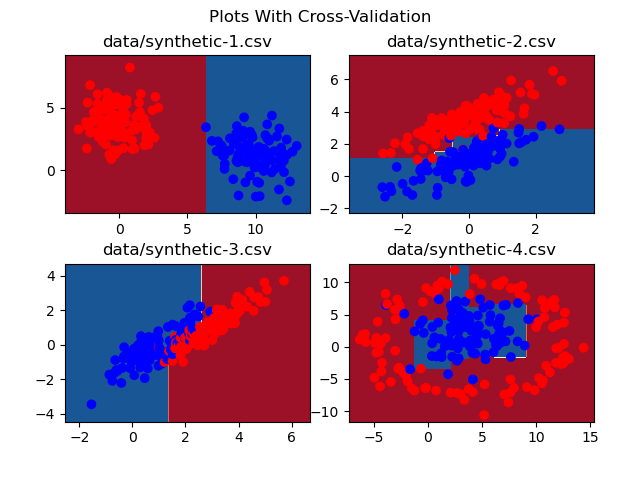
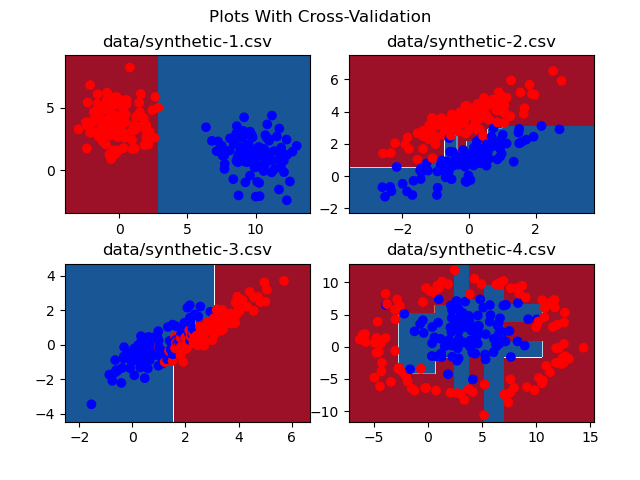
sets binCount to 8

diff --git a/decisionTrees.py b/decisionTrees.py
@@ -185,7 +185,7 @@ def readData(filename, hasHeader = False):
         return dataPoints, features
     return dataPoints
 
-BINCOUNT = 6
+BINCOUNT = 8
 
 plotIndex = 1
 for fileName in [r'data/synthetic-1.csv', r'data/synthetic-2.csv', r'data/synthetic-3.csv', r'data/synthetic-4.csv']:
